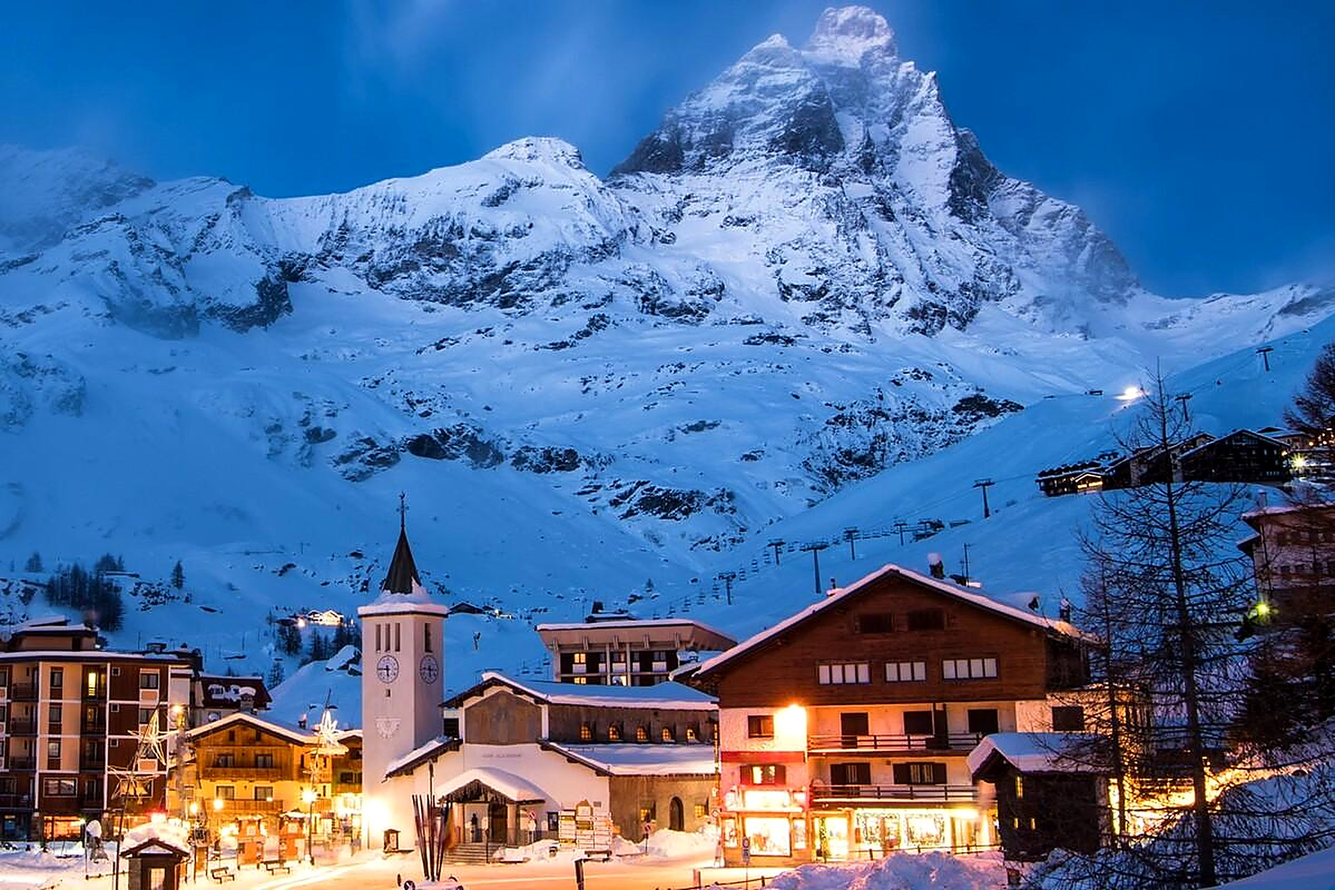
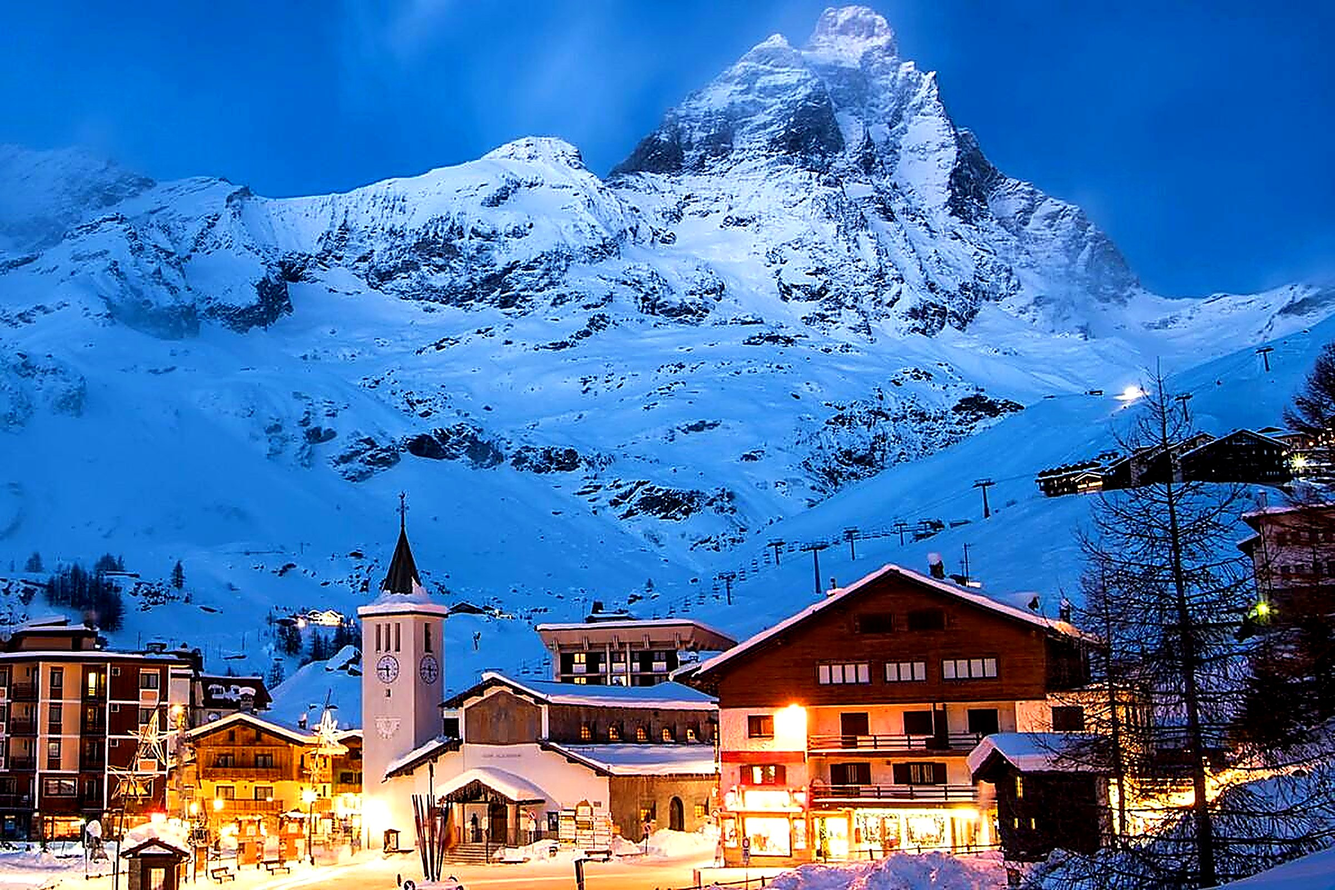
Reduce hero haze and show more of the scene
Lightened the dark navy overlay gradient (was washing the photo out
blue/hazy) and applied a dehaze pass (autocontrast + saturation +
clarity) to cut through the atmospheric mist around the peak in the
source photo. Increased hero min-height so less of the image is
cropped. Shared styles.css change applies across EN/FR/DE.

diff --git a/cervinia-shop/site/styles.css b/cervinia-shop/site/styles.css
@@ -236,14 +236,14 @@ header.site-nav {
 /* ---------- hero ---------- */
 .hero {
   position: relative; overflow: hidden;
-  min-height: 680px; padding: 140px 0 0;
+  min-height: 760px; padding: 140px 0 0;
   display: flex; flex-direction: column;
   background:
-    linear-gradient(180deg, rgba(8,16,28,.80) 0%, rgba(8,16,28,.32) 42%, rgba(8,16,28,.55) 75%, rgba(8,16,28,.92) 100%),
+    linear-gradient(180deg, rgba(8,16,28,.45) 0%, rgba(8,16,28,.15) 42%, rgba(8,16,28,.45) 75%, rgba(8,16,28,.82) 100%),
     radial-gradient(900px 600px at 82% 8%, rgba(225,86,122,.22) 0%, rgba(225,86,122,0) 55%),
     url('/cervinia-hero-village-bluehour.jpg');
   background-size: cover;
-  background-position: center 38%;
+  background-position: center 34%;
 }
 .hero > .wrap { position: relative; z-index: 1; }
 .hero-content { max-width: 640px; }
